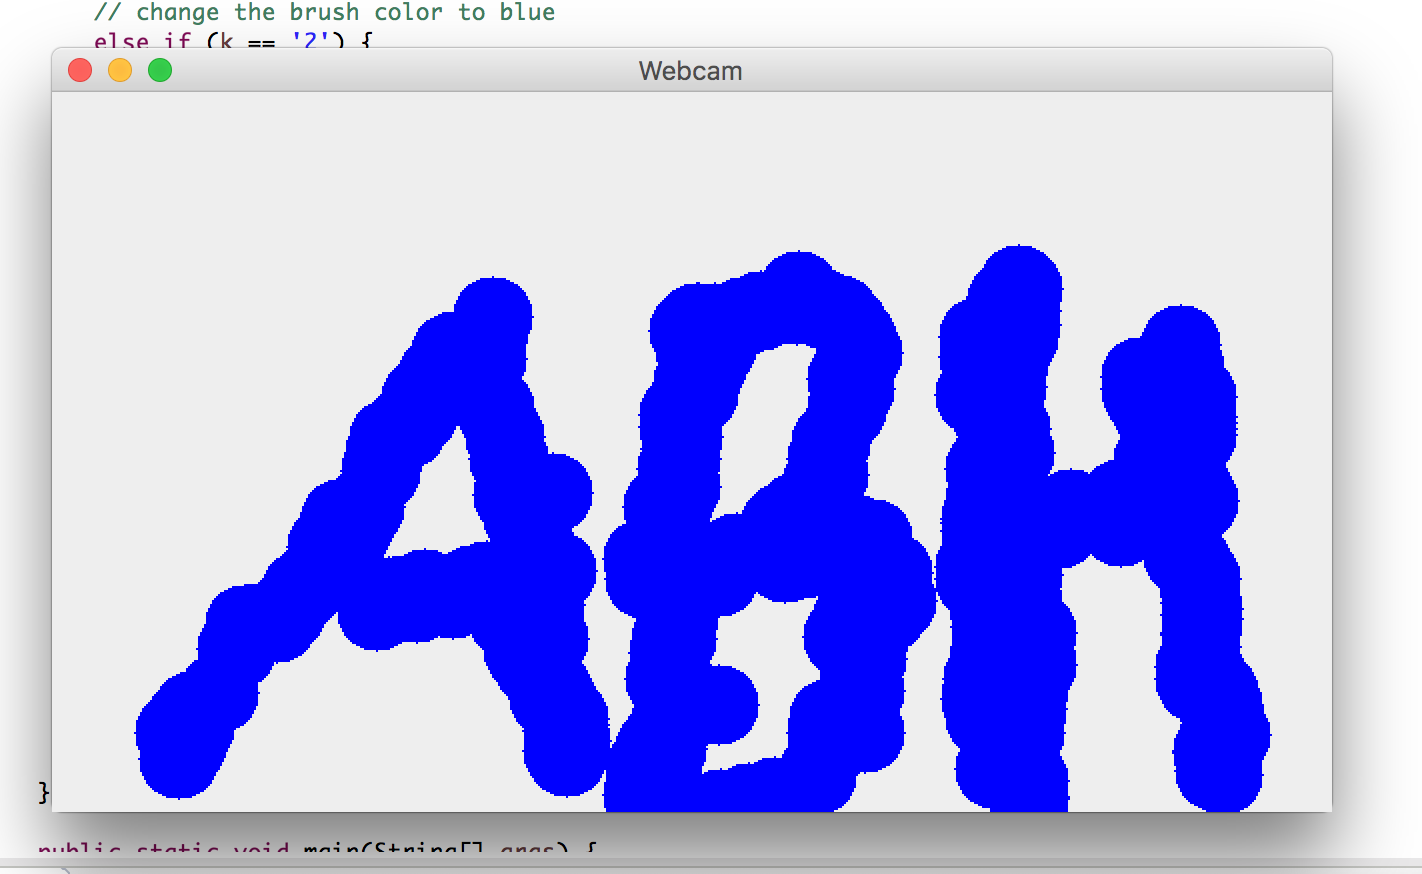
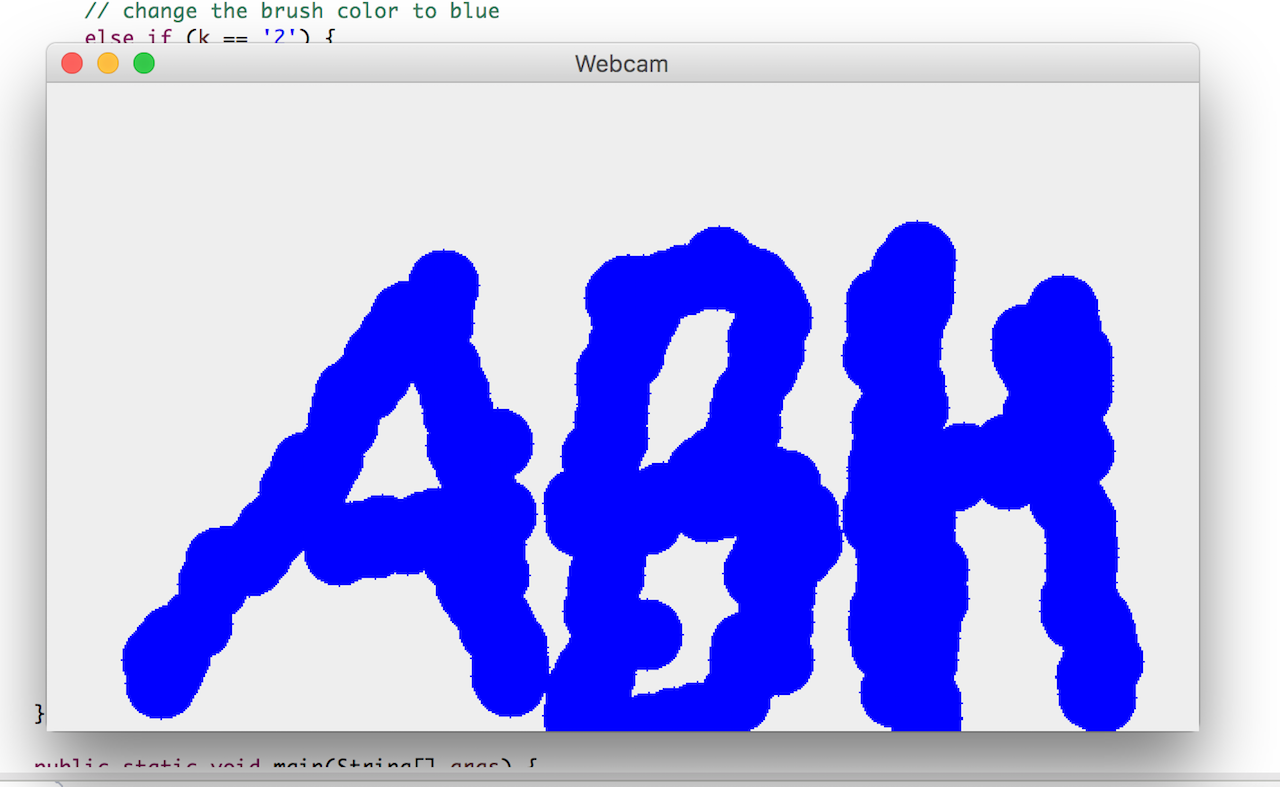
resizing images

Changed region(s): [[0.0938, 0.0, 0.1562, 0.0305]]

diff --git a/index.html b/index.html
@@ -329,7 +329,7 @@
 
         <div class="row even">
           <div class="col-md-4">
-            <img class="img-responsive center-block resizePort" src="img/colider.png" data-toggle="modal" data-target="#collisionModal">
+            <img class="img-responsive center-block resizePort" src="img/colider.jpg" data-toggle="modal" data-target="#collisionModal">
           </div>
           <div class="col-md-7 mediaText">
             <h4 class="mediaHeader">Collision Detection</h4>
@@ -436,7 +436,7 @@
           </div>
           <div class="modal-body">
             <img class="img-responsive shadowPicture" src="img/dotTree.jpg">
-            <img class="img-responsive shadowPicture marginTop" src="img/colider.png">
+            <img class="img-responsive shadowPicture marginTop" src="img/colider.jpg">
           </div>
         </div>
       </div>
